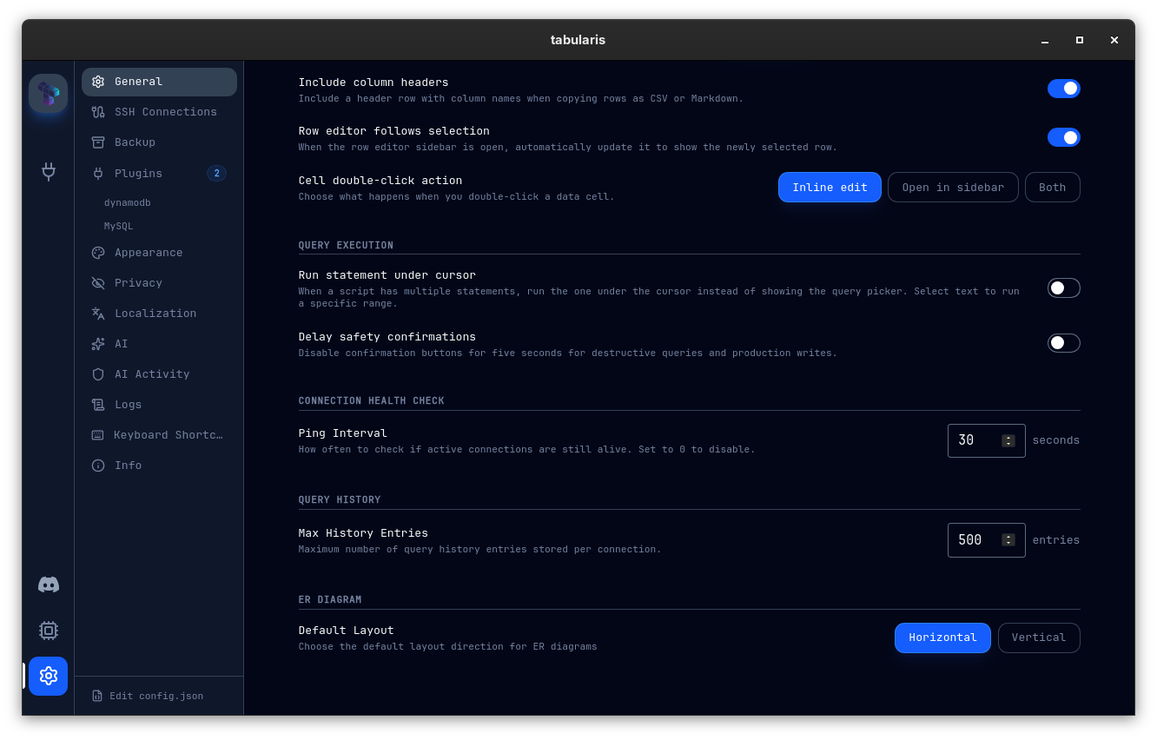
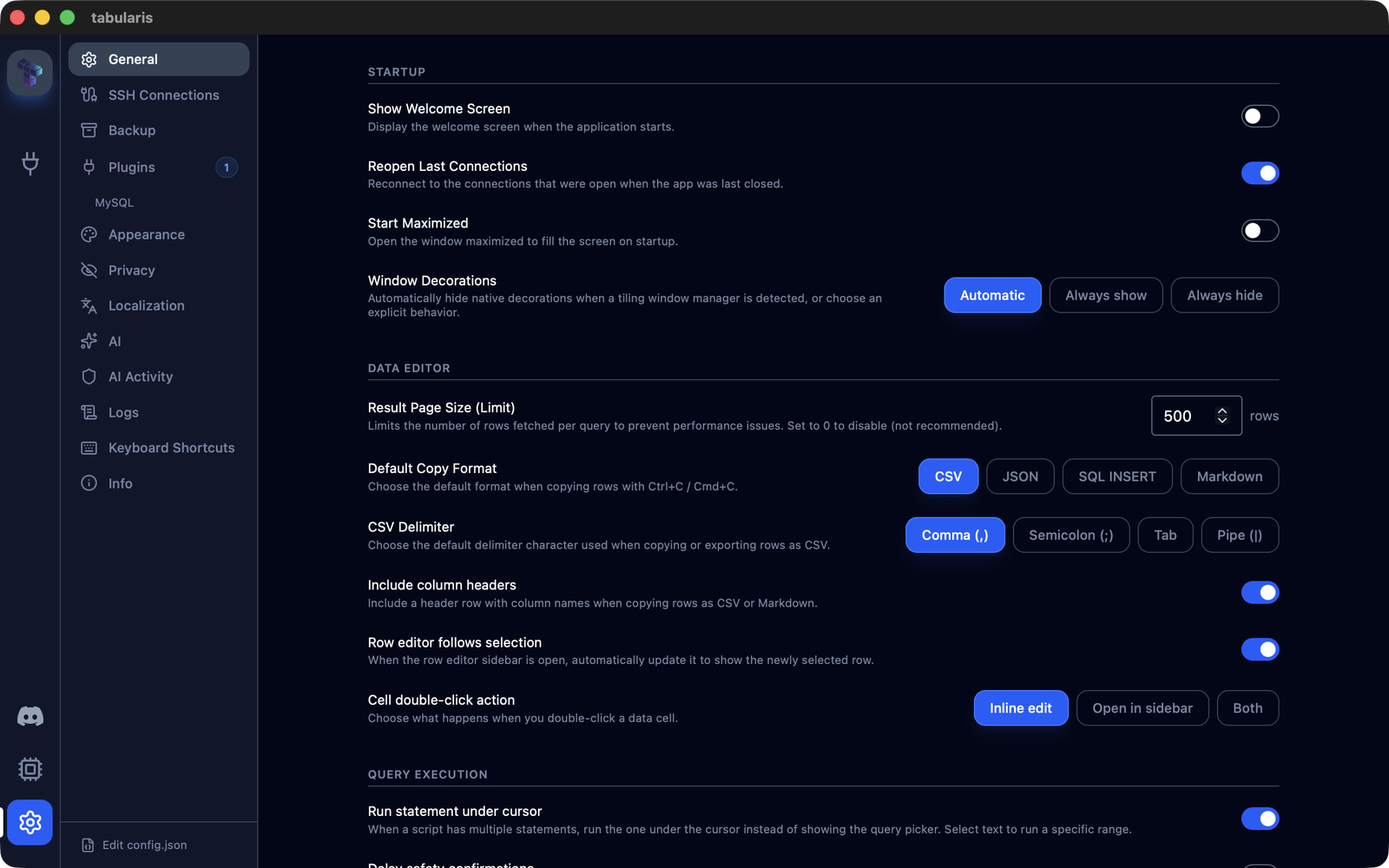
feat(blog): v0.22.0 release post with follow-system theme, grid selection shortcuts and tiling decorations
Add the v0.22.0 announcement post with screenshots and update the
themes, data-grid, keyboard-shortcuts and configuration wiki pages for
the new Theme Mode, grid selection shortcuts and Window Decorations
setting.

diff --git a/content/posts/v0220-follow-system-theme-grid-selection-shortcuts-tiling-decorations.md b/content/posts/v0220-follow-system-theme-grid-selection-shortcuts-tiling-decorations.md
@@ -1,0 +1,106 @@
+---
+title: "v0.22.0: Themes That Follow Your OS, Spreadsheet Selection in the Grid, and a Titlebar That Gets Out of the Way on Tiling Window Managers"
+date: "2026-09-01T21:40:00"
+release: "v0.22.0"
+tags: ["release", "feature", "bugfix", "postgres", "mysql", "sqlite", "ui", "ux", "data-grid", "community"]
+excerpt: "v0.22.0 adds a Follow System theme mode with separate light and dark picks that switch live with the OS appearance, Google Sheets style keyboard selection in the data grid (Shift+Arrow ranges, Ctrl+Space columns, Shift+Space rows, header click to select a column), automatic hiding of native window decorations on Hyprland, Sway, i3 and other tiling window managers, a round of notebook fixes, and community patches for the production banner, PostgreSQL test connections with client certificates, SQLite text BLOBs and MySQL routines in non-default schemas."
+og:
+  template: "screenshot-split"
+  title: "v0.22.0:"
+  accent: "Follow. Select. Tile."
+  claim: "Pick a light and a dark theme and let the OS choose between them, select rows, columns and ranges from the keyboard like a spreadsheet, and lose the native titlebar automatically under a tiling window manager."
+  image: "/img/tabularis-theme-mode-follow-system.png"
+  appLabel: "tabularis"
+---
+
+# v0.22.0: Themes That Follow Your OS, Spreadsheet Selection in the Grid, and a Titlebar That Gets Out of the Way on Tiling Window Managers
+
+**v0.22.0** follows [v0.21.0](/blog/v0210-sql-folding-per-tab-page-size-postgres-mtls) and is a release about how the app fits into the desktop around it. The theme can now follow the operating system's light/dark appearance, with a separate theme for each mode, and the native window chrome switches with it. On Linux, Tabularis detects tiling window managers and drops its native decorations so the window tiles like everything else on the screen. Inside the app, the data grid learns the selection shortcuts you already know from Google Sheets: Shift+Arrow grows a range, Ctrl/Cmd+Arrow jumps to the edge, Shift+Space and Ctrl/Cmd+Space select rows and columns, and a plain click on a header selects the column. Notebooks get a round of frontend fixes from the community, and the tail of the release is a set of precise bug fixes: the production banner no longer slices the last grid row in half, PostgreSQL **Test Connection** finally honors client certificates and custom CAs, SQLite BLOBs that are really text display as text, and MySQL routine definitions resolve in the schema you opened them from.
+
+---
+
+## Follow System: One Theme for Light, One for Dark
+
+Tabularis has had a light/dark listener in the theme provider for a long time, but it was hardcoded to the two default themes and hidden behind a flag nothing could set. Issue [#649](https://github.com/TabularisDB/tabularis/issues/649) asked for the real thing, and [@iamthenuggetman](https://github.com/iamthenuggetman) built it in PR [#650](https://github.com/TabularisDB/tabularis/pull/650). **Settings → Appearance** gains a **Theme Mode** switch with two options:
+
+- **Static** keeps a single fixed theme. This is the previous behavior and still the default, so nothing changes for existing installs.
+- **Follow System** shows two pickers, **Light Theme** and **Dark Theme**, each filtered to themes of that classification (custom themes included, classified by their Monaco base). The app watches `prefers-color-scheme` and applies the matching pick the moment the OS flips, and it also asks the native window to switch its chrome via Tauri's `setTheme`, so the titlebar follows too.
+
+The resolution is a pure helper, `resolveActiveThemeId(settings, systemIsDark)`, and the edge cases are handled rather than hoped away: toggling Follow System applies the current-mode theme immediately, a picked theme that no longer resolves (a deleted custom theme, say) falls back to the preset for the *current* OS mode instead of always landing on dark, and deleting a custom theme resets any per-mode pick that referenced it. The editor is untouched: **Same as App** follows the switch automatically, explicit editor overrides stay fixed. Three optional fields land in `config.json`, `followSystemTheme`, `lightThemeId` and `darkThemeId`; absent fields mean Static, so there is no migration. Strings shipped in all eleven locales, and the PR came with provider tests for hydration, persistence, bidirectional OS switching and the fallback paths, plus a follow-up from the Kilo review that fixed the delete-active-theme case in follow mode.
+
+![Settings → Appearance with the Theme Mode switch set to Follow System and separate Light Theme and Dark Theme pickers](/img/tabularis-theme-mode-follow-system.png)
+
+---
+
+## Spreadsheet-Style Selection in the Data Grid
+
+The grid got cell focus and arrow navigation in v0.18.0 and cell-range selection with Shift+click shortly after. What it lacked was the keyboard half of that story, and issue [#673](https://github.com/TabularisDB/tabularis/issues/673) from [@manojvignesh](https://github.com/manojvignesh) laid out exactly which half: rows, columns and ranges, from the keyboard, the way Google Sheets does it. PR [#683](https://github.com/TabularisDB/tabularis/pull/683) implements that set. Every shortcut is relative to the focused cell:
+
+| Shortcut | Action |
+| :--- | :--- |
+| `Shift + Arrow` | Extend a rectangular range by one step. The anchor stays fixed, the opposite corner moves. |
+| `Ctrl/Cmd + Arrow` | Jump the focused cell to the grid edge. |
+| `Ctrl/Cmd + Shift + Arrow` | Extend the range to the grid edge. |
+| `Ctrl/Cmd + Home` / `End` | First / last cell of the grid. |
+| `Shift + Space` | Select the row(s) of the focused cell or of the current range. |
+| `Ctrl/Cmd + Space`, or `Ctrl/Cmd + Shift + Space` | Select the column(s) of the focused cell or of the current range. |
+
+![The customers grid with a four-by-three cell range selected from the keyboard with Shift+Arrow, the focused cell outlined at the top-left corner of the range](/img/tabularis-grid-keyboard-range.png)
+
+The second column binding exists because plain Ctrl+Space is often consumed before it reaches the app: ibus and fcitx on Linux, Spotlight on macOS. Row, column and range selection remain mutually exclusive, so `Ctrl/Cmd + C` keeps unambiguous copy semantics, and the focused cell survives Shift/Ctrl+Space so shortcuts chain (Shift+Down three times, then Shift+Space, selects four rows).
+
+Headers change with it. A **plain click on a column header now selects that column**, replacing the current selection; Ctrl/Cmd+click still toggles and Shift+click still range-selects. Sorting moves to the sort icon next to the column name, which is now a real button with an aria-label, still revealed on hover. One behavior to be aware of: with a focused cell, Ctrl+Left/Right now jumps to the grid edge instead of paginating. The **Next page** and **Previous page** shortcuts still fire when no cell is focused and from the pagination buttons, and both remain user-overridable in **Settings → Keyboard Shortcuts**, where the new bindings are listed too. The range logic lives in pure helpers in `utils/dataGrid.ts` with unit tests, and every shortcut has a component test.
+
+---
+
+## Native Decorations Get Out of the Way on Tiling Window Managers
+
+On a tiling window manager the native titlebar is dead weight: the compositor already decides where the window goes and how big it is, and the extra strip just steals vertical space and looks wrong next to everything else. PR [#680](https://github.com/TabularisDB/tabularis/pull/680) makes Tabularis notice. On Linux it looks for the session sockets and desktop names of common tilers, `HYPRLAND_INSTANCE_SIGNATURE`, `SWAYSOCK`, `I3SOCK`, `NIRI_SOCKET`, `RIVER_SOCKET`, `BSPWM_SOCKET`, and `XDG_CURRENT_DESKTOP` / `XDG_SESSION_DESKTOP` / `DESKTOP_SESSION` values such as awesome, bspwm, dwm, hyprland, i3, leftwm, niri, qtile, river, sway and xmonad, and hides native decorations when it recognizes one.
+
+The behavior is a setting rather than a guess you can't override. **Settings → General → Window Decorations** offers **Automatic** (the default, described above), **Always show** and **Always hide**, persisted as `windowDecorations` in `config.json`. Changing it applies to every open window immediately, and secondary windows (connection windows, detached results) are created with the same mode. On macOS and Windows, Automatic keeps native decorations on; the setting is there if you want to force it either way. The detection is a pure function over environment variables and carries its own unit tests.
+
+![Settings → General with the Window Decorations button group: Automatic, Always show, Always hide](/img/tabularis-settings-general.png)
+
+:::newsletter:::
+
+---
+
+## Notebook Polish
+
+Two PRs from [@harshavardhankonisa](https://github.com/harshavardhankonisa) went through the notebook frontend with a magnifying glass.
+
+PR [#687](https://github.com/TabularisDB/tabularis/pull/687) fixes three things you notice within a minute of using a notebook. The **add-cell dropdown** always opened downward, so near the bottom of the viewport it rendered off-screen and could not be clicked; it now measures its position and flips upward when there is no room below. **New cells were not scrolled into view**, because `scrollToCell` ran before React had rendered the cell, so the scroll was a silent no-op; the update is now flushed synchronously and scroll-plus-focus live inside `addCell` itself, which also removed six duplicated call sites. And the **SQL cell editor** was a fixed 150px box, cramped for any multi-line query; it now tracks Monaco's content height and grows to fit, with a 60px minimum for empty cells.
+
+![A notebook SQL cell whose editor has grown to show a ten-line query in full, with the result grid below it](/img/tabularis-notebook-autofit-editor.png)
+
+PR [#700](https://github.com/TabularisDB/tabularis/pull/700) is a broader React audit that touches the notebook as well as a dozen other components. The visible change is that cells scroll to the *top* of the viewport with a small margin instead of the center, which reads better when you are adding cells in sequence. Under the surface, eleven copies of the copy-to-clipboard-then-reset-after-two-seconds pattern, none of which cleaned up its timer on unmount, are replaced by one `useCopyFeedback` hook with tests; the context menu uses stable keys so rebuilt menus no longer inherit stale hover state; `SqlHighlight` sanitizes its HTML through DOMPurify like the plugin README modal already did; the connection icon component stops calling `setState` during render; and the notebook outline's `role="button"` rows answer to Space as well as Enter, as WCAG expects.
+
+---
+
+## Smaller Things
+
+- **The production banner no longer clips the last grid row** ([@thomaswasle](https://github.com/thomaswasle), PR [#684](https://github.com/TabularisDB/tabularis/pull/684), closes [#682](https://github.com/TabularisDB/tabularis/issues/682)): every routed page sizes itself with `h-full`, which resolved against the full height of `<main>` and ignored the banner rendered above it. With a production-flagged connection the page was about 18px taller than the space it had, and the bottom of the results grid, half of the last row, was cut off and unreachable. The routed content is now wrapped in a properly sized flex item, which fixes the editor and split-pane geometry under the banner as well.
+- **PostgreSQL Test Connection honors client certificates and custom CAs** ([@adisusilayasa](https://github.com/adisusilayasa), PR [#678](https://github.com/TabularisDB/tabularis/pull/678)): the driver never overrode `test_connection`, so the test path went through `sqlx::AnyConnection` and a URL that carried no client certificate, and on macOS used the system keychain instead of the supplied CA bundle. Servers requiring mTLS rejected the test with `connection requires a valid client certificate` even though real queries, fixed in v0.21.0, worked. The test now uses the same rustls connector as the query pool, so `ssl_ca`, `ssl_cert` and `ssl_key` behave identically in both.
+- **Monaco relayouts while you drag the editor resize handle** ([@DhruvShah-Dev](https://github.com/DhruvShah-Dev), PR [#657](https://github.com/TabularisDB/tabularis/pull/657), fixes [#113](https://github.com/TabularisDB/tabularis/issues/113)): the resize handler wrote panel heights to the DOM during the drag and committed React state on release, and Monaco's automatic layout lagged behind the manual writes, leaving stale measurements and visual glitches. The editor is now explicitly relayouted during the drag and once more after release.
+- **SQLite text BLOBs display as text** (PR [#696](https://github.com/TabularisDB/tabularis/pull/696), fixes [#695](https://github.com/TabularisDB/tabularis/issues/695)): the v0.20.0 hex preview treated every small generic BLOB as binary, so a BLOB column holding UTF-8 strings, file paths for instance, came back as a hexdump. A complete `application/octet-stream` value that decodes as valid UTF-8 with no binary control characters is now shown as text; invalid UTF-8 and real binary keep the hex preview.
+- **MySQL routine definitions in non-default schemas** (PR [#701](https://github.com/TabularisDB/tabularis/pull/701), fixes [#699](https://github.com/TabularisDB/tabularis/issues/699)): `SHOW CREATE PROCEDURE` was issued with the bare routine name, so MySQL resolved it against the session's default database and returned error 1305 for any routine opened from another database in the sidebar. Listing, parameters, drop and call scripts were already schema-aware; the definition and edit path was the only one that wasn't. The statement is now schema-qualified with proper backtick escaping, with unit tests for both routine types.
+- **`brew install --cask tabularis`, no tap** ([@justsrc](https://github.com/justsrc), PR [#691](https://github.com/TabularisDB/tabularis/pull/691)): Tabularis is in the main Homebrew cask repository, so the `brew tap TabularisDB/tabularis` step is gone from all eleven README translations.
+- **Nightly build pinned**: the CI install of `tauri-cli` is pinned to a revision and runs with `--locked`, after an unpinned branch install pulled a `value-bag` release incompatible with the `log` crate and broke the nightly.
+
+---
+
+## Thanks
+
+Six external contributors land in v0.22.0.
+
+**[@iamthenuggetman](https://github.com/iamthenuggetman)** shipped the release's headline feature, Follow System theme mode with per-mode themes, native chrome sync and the full fallback story ([#650](https://github.com/TabularisDB/tabularis/pull/650)). **[@harshavardhankonisa](https://github.com/harshavardhankonisa)** fixed the notebook's dropdown, scroll and editor-height issues ([#687](https://github.com/TabularisDB/tabularis/pull/687)) and followed up with a React audit that removed a class of timer leaks and render-time state updates across the app ([#700](https://github.com/TabularisDB/tabularis/pull/700)). **[@thomaswasle](https://github.com/thomaswasle)** diagnosed and fixed the production-banner clipping with a writeup that made the review trivial ([#684](https://github.com/TabularisDB/tabularis/pull/684)).
+
+**[@adisusilayasa](https://github.com/adisusilayasa)** closed the loop on PostgreSQL client certificates by bringing Test Connection onto the same connector as the pool ([#678](https://github.com/TabularisDB/tabularis/pull/678)). **[@DhruvShah-Dev](https://github.com/DhruvShah-Dev)** put the editor resize glitch open since March to rest ([#657](https://github.com/TabularisDB/tabularis/pull/657)), and **[@justsrc](https://github.com/justsrc)** simplified the macOS install docs now that the cask lives upstream ([#691](https://github.com/TabularisDB/tabularis/pull/691)). Thanks also to **[@manojvignesh](https://github.com/manojvignesh)** for the selection-shortcuts spec in [#673](https://github.com/TabularisDB/tabularis/issues/673), to **[@agross](https://github.com/agross)** for the SQLite BLOB report, and to **[@madiajijah11](https://github.com/madiajijah11)** for the MySQL routine report.
+
+If you switch your OS to dark at sunset and have been switching Tabularis by hand right after, run it under Hyprland or Sway with a titlebar that doesn't belong there, or have reached for Shift+Space in the grid out of spreadsheet habit and had nothing happen, this is the upgrade.
+
+:::contributors:::
+
+---
+
+_v0.22.0 is available now. Update via the in-app updater, or download from the [releases page](https://github.com/TabularisDB/tabularis/releases/tag/v0.22.0)._

diff --git a/content/wiki/data-grid.md b/content/wiki/data-grid.md
@@ -33,9 +33,9 @@ Drag a column header border left or right to resize columns. Double-click the bo
 
 ### Sorting
 
-Click a column header to sort by that column (ascending). Click again to sort descending. A third click removes the sort. Sorting is applied server-side — a new query is issued with an `ORDER BY` clause so the sort is consistent across all pages.
+Click the sort icon in a column header (revealed on hover) to sort by that column (ascending). Click again to sort descending. A third click removes the sort. Since v0.22.0 a plain click on the header itself selects the column instead of sorting; see [Column-level copy](#column-level-copy). Sorting is applied server-side — a new query is issued with an `ORDER BY` clause so the sort is consistent across all pages.
 
-> **LIMIT / OFFSET preservation** — if your query includes a `LIMIT` or `OFFSET` clause, clicking a column header to sort will preserve it. Only the `ORDER BY` portion is replaced.
+> **LIMIT / OFFSET preservation** — if your query includes a `LIMIT` or `OFFSET` clause, sorting from a column header will preserve it. Only the `ORDER BY` portion is replaced.
 
 ### Filtering
 
@@ -93,8 +93,18 @@ Since v0.18.0 the focused cell moves from the keyboard, not only from a click:
 | `PageUp` / `PageDown` | Move one viewport of rows. |
 | `Enter` / `F2` | Open the focused cell for editing — the same path as a double-click. |
 | `Cmd/Ctrl + A` | Select all loaded rows. |
+| `Shift + Arrow` | Extend a rectangular cell range by one step (since v0.22.0). The anchor stays fixed, the opposite corner moves. |
+| `Cmd/Ctrl + Arrow` | Jump the focused cell to the grid edge (since v0.22.0). |
+| `Cmd/Ctrl + Shift + Arrow` | Extend the cell range to the grid edge (since v0.22.0). |
+| `Cmd/Ctrl + Home` / `End` | First / last cell of the grid (since v0.22.0). |
+| `Shift + Space` | Select the row(s) of the focused cell or of the current range (since v0.22.0). |
+| `Cmd/Ctrl + Space` or `Cmd/Ctrl + Shift + Space` | Select the column(s) of the focused cell or of the current range (since v0.22.0). |
 
-The first key press in a grid with no focused cell yet enters at the top-left cell. Keys are bound to the grid's scroll container rather than to the document, so in a notebook — which mounts one grid per SQL cell — only the grid you are working in responds. Keys are left alone for anything that handles them itself: text inputs, the foreign-key and BLOB buttons inside cells, and the sortable column headers. Closing an edit with `Enter` or `Escape` returns focus to the grid so navigation continues.
+The first key press in a grid with no focused cell yet enters at the top-left cell. Keys are bound to the grid's scroll container rather than to the document, so in a notebook — which mounts one grid per SQL cell — only the grid you are working in responds. Keys are left alone for anything that handles them itself: text inputs, the foreign-key and BLOB buttons inside cells, and the sort buttons in column headers. Closing an edit with `Enter` or `Escape` returns focus to the grid so navigation continues.
+
+![A cell range grown with Shift+Arrow, then turned into a four-row selection with Shift+Space while the focused cell stays outlined](/img/tabularis-grid-keyboard-row-select.png)
+
+The selection shortcuts mirror Google Sheets and keep the focused cell after `Shift + Space` / `Cmd/Ctrl + Space`, so they chain: `Shift + ↓` three times followed by `Shift + Space` selects four rows. `Cmd/Ctrl + Shift + Space` is an alternative for column selection on systems where plain `Ctrl + Space` is taken by the input method (ibus, fcitx) or by Spotlight. With a focused cell, `Cmd/Ctrl + ←` / `→` jumps to the edge rather than paginating; the page shortcuts still work with no cell focused and from the pagination buttons.
 
 `Cmd/Ctrl + A` is ignored inside text inputs, while a cell editor is open, and in any grid you have not interacted with.
 
@@ -138,11 +148,11 @@ Since v0.17.0 you can copy all values of a single column — from the cell conte
 | **Copy column values** | Newline-separated, one value per line, `null` for NULL cells. |
 | **Copy column values (IN clause)** | A ready-to-paste SQL list: numbers raw (`1, 2, 3`), strings quoted with `''` escaping (`'O''Brien'`), `NULL` for nulls. |
 
-Since v0.18.0 you can also select whole columns DBeaver-style: `Cmd/Ctrl + click` a column header toggles it, `Shift + click` range-selects headers, and a plain click still sorts. `Ctrl/Cmd + C` then copies the selected columns for the rows in scope.
+Since v0.18.0 you can also select whole columns DBeaver-style: `Cmd/Ctrl + click` a column header toggles it and `Shift + click` range-selects headers. Since v0.22.0 a plain click on a header selects that column (replacing the current selection), and sorting moves to the sort icon next to the column name. From the keyboard, `Cmd/Ctrl + Space` (or `Cmd/Ctrl + Shift + Space`) selects the column(s) of the focused cell or range. `Ctrl/Cmd + C` then copies the selected columns for the rows in scope.
 
 ### Cell range selection
 
-`Shift + click` a second cell to select the rectangle between it and the currently focused cell. The range is highlighted, and the context menu offers **Copy Range (R×C)** to copy exactly those cells. A plain click moves the anchor and clears the range.
+`Shift + click` a second cell to select the rectangle between it and the currently focused cell, or since v0.22.0 grow it from the keyboard with `Shift + Arrow` (one step) and `Cmd/Ctrl + Shift + Arrow` (to the grid edge). The range is highlighted, and the context menu offers **Copy Range (R×C)** to copy exactly those cells. A plain click moves the anchor and clears the range.
 
 ## Pasting Data
 

diff --git a/content/wiki/configuration.md b/content/wiki/configuration.md
@@ -20,6 +20,7 @@ Open the Settings panel from:
 
 - **Language Support**: Native translations for **English**, **Italian**, **Spanish**, **Chinese (Simplified)**, **French**, **German**, **Japanese**, **Russian**, **Tagalog** (added in v0.15.0), **Korean** (added in v0.16.0), and **Brazilian Portuguese** (added in v0.17.0). The app defaults to your OS locale — Filipino (`fil`) systems map to Tagalog automatically, and region-coded locales like `pt-BR` resolve correctly — and changing the language applies immediately. With eleven languages the picker is now a searchable select showing each language's native name.
 - **Display Timezone**: A searchable picker of IANA timezones (with current UTC-offset labels) under **Settings → Localization**, defaulting to **Auto** (your OS zone). The selected zone drives every UI timestamp — AI activity log, query history, favorites — plus CSV / JSON / notebook exports and their default filenames. Query-history date grouping (today / yesterday / older) is classified in the same zone, so headers and per-row times always agree.
+- **Window Decorations** (since v0.22.0): **Automatic** (default), **Always show** or **Always hide** for the native titlebar. In Automatic mode Tabularis hides native decorations on Linux when it detects a tiling window manager (Hyprland, Sway, i3, Niri, River, bspwm, awesome, dwm, leftwm, qtile, xmonad) through the session's environment variables, and keeps them on everywhere else. The choice applies to open windows immediately and to secondary windows when they are created. Stored as `windowDecorations` in `config.json`.
 - **Delay safety confirmations** (since v0.21.0): off by default. When enabled, the confirm button of the destructive-query and production-write dialogs stays disabled for five seconds so the warning is actually read. Stored as `safetyConfirmationDelayEnabled` in `config.json`.
 - **Update Checks**: Enable or disable automatic update checks on startup. Checks query the GitHub Releases API — no version data is sent, only a GET request is made.
 
@@ -54,7 +55,11 @@ Any key omitted from the file falls back to its default value. You do not need a
 
 | Key | Type | Default | Description |
 | :--- | :--- | :--- | :--- |
-| `theme` | `string` | `null` | Active UI theme ID. See [Themes](/wiki/themes). |
+| `theme` | `string` | `null` | Active UI theme ID (used in Static theme mode). See [Themes](/wiki/themes). |
+| `followSystemTheme` | `boolean` | `null` | Since v0.22.0. When `true`, the app follows the OS light/dark appearance and picks `lightThemeId` / `darkThemeId` accordingly. Absent or `false` means Static mode. |
+| `lightThemeId` | `string` | `null` | Since v0.22.0. Theme applied when the OS is in light mode and `followSystemTheme` is on. |
+| `darkThemeId` | `string` | `null` | Since v0.22.0. Theme applied when the OS is in dark mode and `followSystemTheme` is on. |
+| `windowDecorations` | `string` | `"automatic"` | Since v0.22.0. `automatic`, `alwaysShow` or `alwaysHide`. Automatic hides native window decorations on Linux tiling window managers. Configurable from **Settings → General → Window Decorations**. |
 | `language` | `string` | `"auto"` | Preferred locale: `en`, `it`, `es`, `zh`, `fr`, `de`, `ja`, `ru`, `tl`, `ko`, `pt-BR`, or `auto` (follows OS; `fil` falls back to `tl`). |
 | `displayTimezone` | `string` | `"auto"` | IANA timezone (e.g. `"Asia/Tokyo"`) used for UI timestamps and exports, or `auto` (OS zone). Configurable from **Settings → Localization → Timezone**. |
 | `resultPageSize` | `number` | `500` | Default rows fetched per pagination request in the Data Grid. Since v0.21.0 the pagination bar's rows-per-page selector can override this for a single tab. |

diff --git a/content/wiki/keyboard-shortcuts.md b/content/wiki/keyboard-shortcuts.md
@@ -65,14 +65,22 @@ Tabularis ships with a set of keyboard shortcuts for common actions across navig
 | Previous page | `⌘+←` | `Ctrl+←` |
 | Save grid changes | `⌘+S` | `Ctrl+S` |
 | Move the focused cell | `↑` `↓` `←` `→` | `↑` `↓` `←` `→` |
+| Extend the cell range by one step | `Shift+↑` `Shift+↓` `Shift+←` `Shift+→` | `Shift+↑` `Shift+↓` `Shift+←` `Shift+→` |
+| Jump the focused cell to the grid edge | `⌘+↑` `⌘+↓` `⌘+←` `⌘+→` | `Ctrl+↑` `Ctrl+↓` `Ctrl+←` `Ctrl+→` |
+| Extend the cell range to the grid edge | `⌘+Shift+Arrow` | `Ctrl+Shift+Arrow` |
 | First / last column of the row | `Home` / `End` | `Home` / `End` |
+| First / last cell of the grid | `⌘+Home` / `⌘+End` | `Ctrl+Home` / `Ctrl+End` |
 | Move one viewport of rows | `PageUp` / `PageDown` | `PageUp` / `PageDown` |
+| Select the row(s) of the focused cell or range | `Shift+Space` | `Shift+Space` |
+| Select the column(s) of the focused cell or range | `⌘+Space` or `⌘+Shift+Space` | `Ctrl+Space` or `Ctrl+Shift+Space` |
 | Edit the focused cell | `Enter` or `F2` | `Enter` or `F2` |
 | Select all loaded rows | `⌘+A` | `Ctrl+A` |
 | Copy the current selection | `⌘+C` | `Ctrl+C` |
 | Paste at the selection (staged as pending changes) | `⌘+V` | `Ctrl+V` |
 
-Cell navigation is bound to the grid you last interacted with, so a notebook with one grid per SQL cell does not move them all at once. Keys are left alone inside text inputs, open cell editors, the foreign-key and BLOB buttons, and the sortable column headers. See [Data Grid → Keyboard Navigation](/wiki/data-grid#keyboard-navigation).
+Cell navigation is bound to the grid you last interacted with, so a notebook with one grid per SQL cell does not move them all at once. Keys are left alone inside text inputs, open cell editors, the foreign-key and BLOB buttons, and the sort buttons in column headers. See [Data Grid → Keyboard Navigation](/wiki/data-grid#keyboard-navigation).
+
+Since v0.22.0 the selection shortcuts (`Shift+Arrow`, `Ctrl/Cmd+Arrow`, `Shift+Space`, `Ctrl/Cmd+Space`) are relative to the focused cell and are not overridable. `Ctrl/Cmd+Shift+Space` is offered as an alternative for column selection because plain `Ctrl+Space` is often captured by an input method (ibus, fcitx) on Linux or by Spotlight on macOS. Note that with a focused cell, `Ctrl/Cmd+←` / `→` jumps to the grid edge; the **Next page** / **Previous page** shortcuts still apply when no cell is focused and from the pagination buttons.
 
 ---
 

diff --git a/content/wiki/themes.md b/content/wiki/themes.md
@@ -17,6 +17,19 @@ Switch themes instantly in **Settings → Appearance**. Changes apply immediatel
 - **Dark Themes**: Tabularis Dark, Monokai, One Dark Pro, Nord, Dracula, GitHub Dark, Solarized Dark, Gruvbox Material Dark, High Contrast.
 - **Light Themes**: Tabularis Light, Solarized Light, Gruvbox Material Light.
 
+## Theme Mode: Static or Follow System
+
+Since v0.22.0 the **Theme Mode** switch in **Settings → Appearance** decides whether the theme is fixed or tracks the operating system:
+
+![Settings → Appearance in Follow System mode with separate Light Theme and Dark Theme pickers](/img/tabularis-theme-mode-follow-system.png)
+
+- **Static** (default): one theme, chosen from the picker, applied regardless of the OS appearance.
+- **Follow System**: two pickers, **Light Theme** and **Dark Theme**, each listing only themes of that classification (custom themes are classified by their Monaco base theme). Tabularis watches the system's `prefers-color-scheme` and applies the matching pick as soon as the OS switches, and also asks the native window to switch its titlebar chrome.
+
+Toggling Follow System applies the current-mode theme immediately. If a picked theme no longer exists (a deleted custom theme, for example), the built-in preset for the current OS mode is used instead, and deleting a custom theme clears any per-mode pick that referenced it. The SQL editor theme is unaffected: **Same as App** follows the switch, an explicit editor theme stays fixed.
+
+The mode is stored in `config.json` as `followSystemTheme`, `lightThemeId` and `darkThemeId`. When the fields are absent the app is in Static mode, so existing installs are unchanged. See [Configuration](/wiki/configuration).
+
 ## Typography Configuration
 
 Readability is critical when parsing logs or complex queries.
